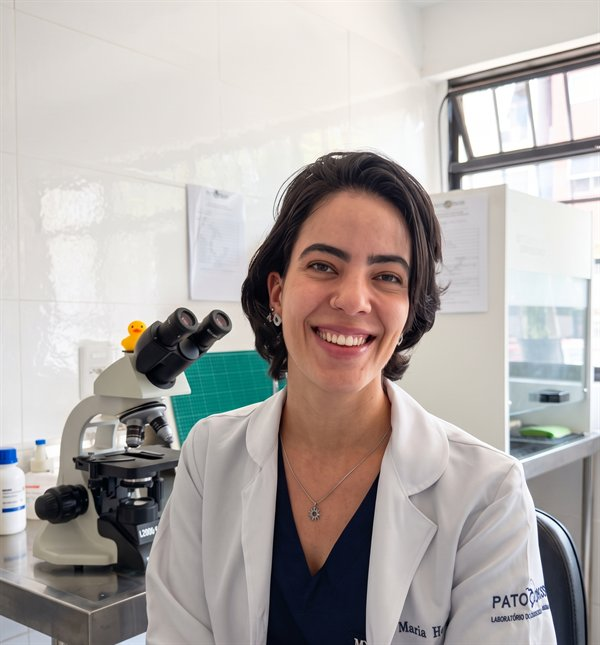
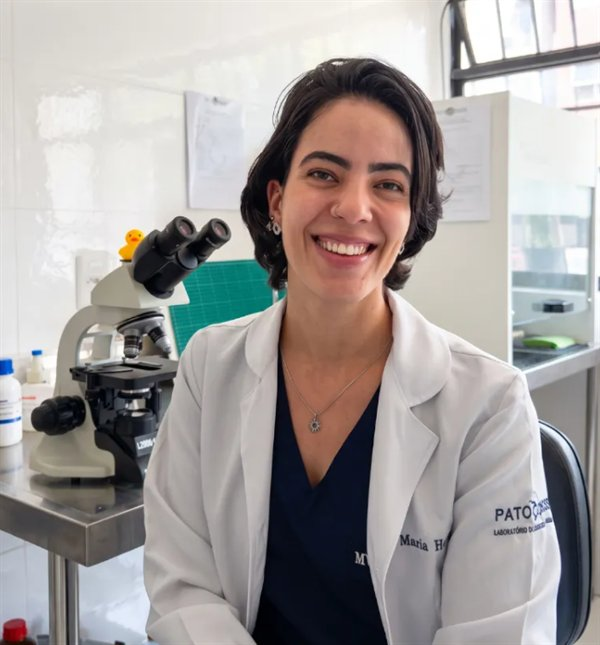
fix: update images and styles

diff --git a/index.html b/index.html
@@ -226,8 +226,8 @@
       </article>
 
       <article class="exam-card reveal" data-exam="necropsia">
-        <div class="exam-media"><img src="assets/img/necropsia.jpg" width="900" height="619" loading="lazy"
-             alt="Equipe realizando necropsia em laboratório de patologia veterinária" /></div>
+        <div class="exam-media"><img src="assets/img/necropsia.jpg" width="423" height="291" loading="lazy"
+             alt="Bandeja com instrumental preparado para necropsia" /></div>
         <div class="exam-body">
           <h3>Necropsia</h3>
           <p>Estudo completo para elucidação de casos clínicos complexos.</p>
@@ -501,9 +501,10 @@
         <span class="stars" aria-label="5 de 5 estrelas"><svg><use href="#i-star"/></svg><svg><use href="#i-star"/></svg><svg><use href="#i-star"/></svg><svg><use href="#i-star"/></svg><svg><use href="#i-star"/></svg></span>
         <small>11 avaliações no Google</small>
       </div>
-      <p>Já foi atendido pela Patogenesis? Conte como foi — e veja no Google o que outros veterinários e tutores dizem.</p>
+      <p>Já foi atendido pela Patogenesis? Conte pra gente como foi sua experiência!<br />
+         Confira também as avaliações de outros veterinários e tutores no Google.</p>
       <a class="btn btn-primary btn-lg" href="https://g.page/r/CYMneedeOsLyEAE/review" target="_blank" rel="noopener">
-        Avaliar no Google <svg class="i"><use href="#i-star"/></svg></a>
+        Avaliar no Google <span class="btn-stars" aria-hidden="true"><svg><use href="#i-star"/></svg><svg><use href="#i-star"/></svg><svg><use href="#i-star"/></svg><svg><use href="#i-star"/></svg><svg><use href="#i-star"/></svg></span></a>
     </div>
   </div>
 </section>

diff --git a/assets/css/styles.css b/assets/css/styles.css
@@ -408,7 +408,9 @@ svg:where(:not(.sprite)){
 .rv-score .stars{ margin-left:0; }
 .rv-score .stars svg{ width:15px; height:15px; }
 .rv-score small{ font-size:12.4px; color:var(--muted); }
-.reviews-cta > p{ font-size:14.8px; color:var(--muted); max-width:420px; }
+.reviews-cta > p{ font-size:14.8px; color:var(--muted); max-width:480px; }
+.btn-stars{ display:inline-flex; gap:2px; }
+.btn-stars svg{ width:14px; height:14px; fill:currentColor; stroke:none; }
 @media (max-width:720px){
   .reviews-cta{ flex-direction:column; text-align:center; gap:18px; padding:24px 20px; }
   .reviews-cta .btn{ width:100%; }
